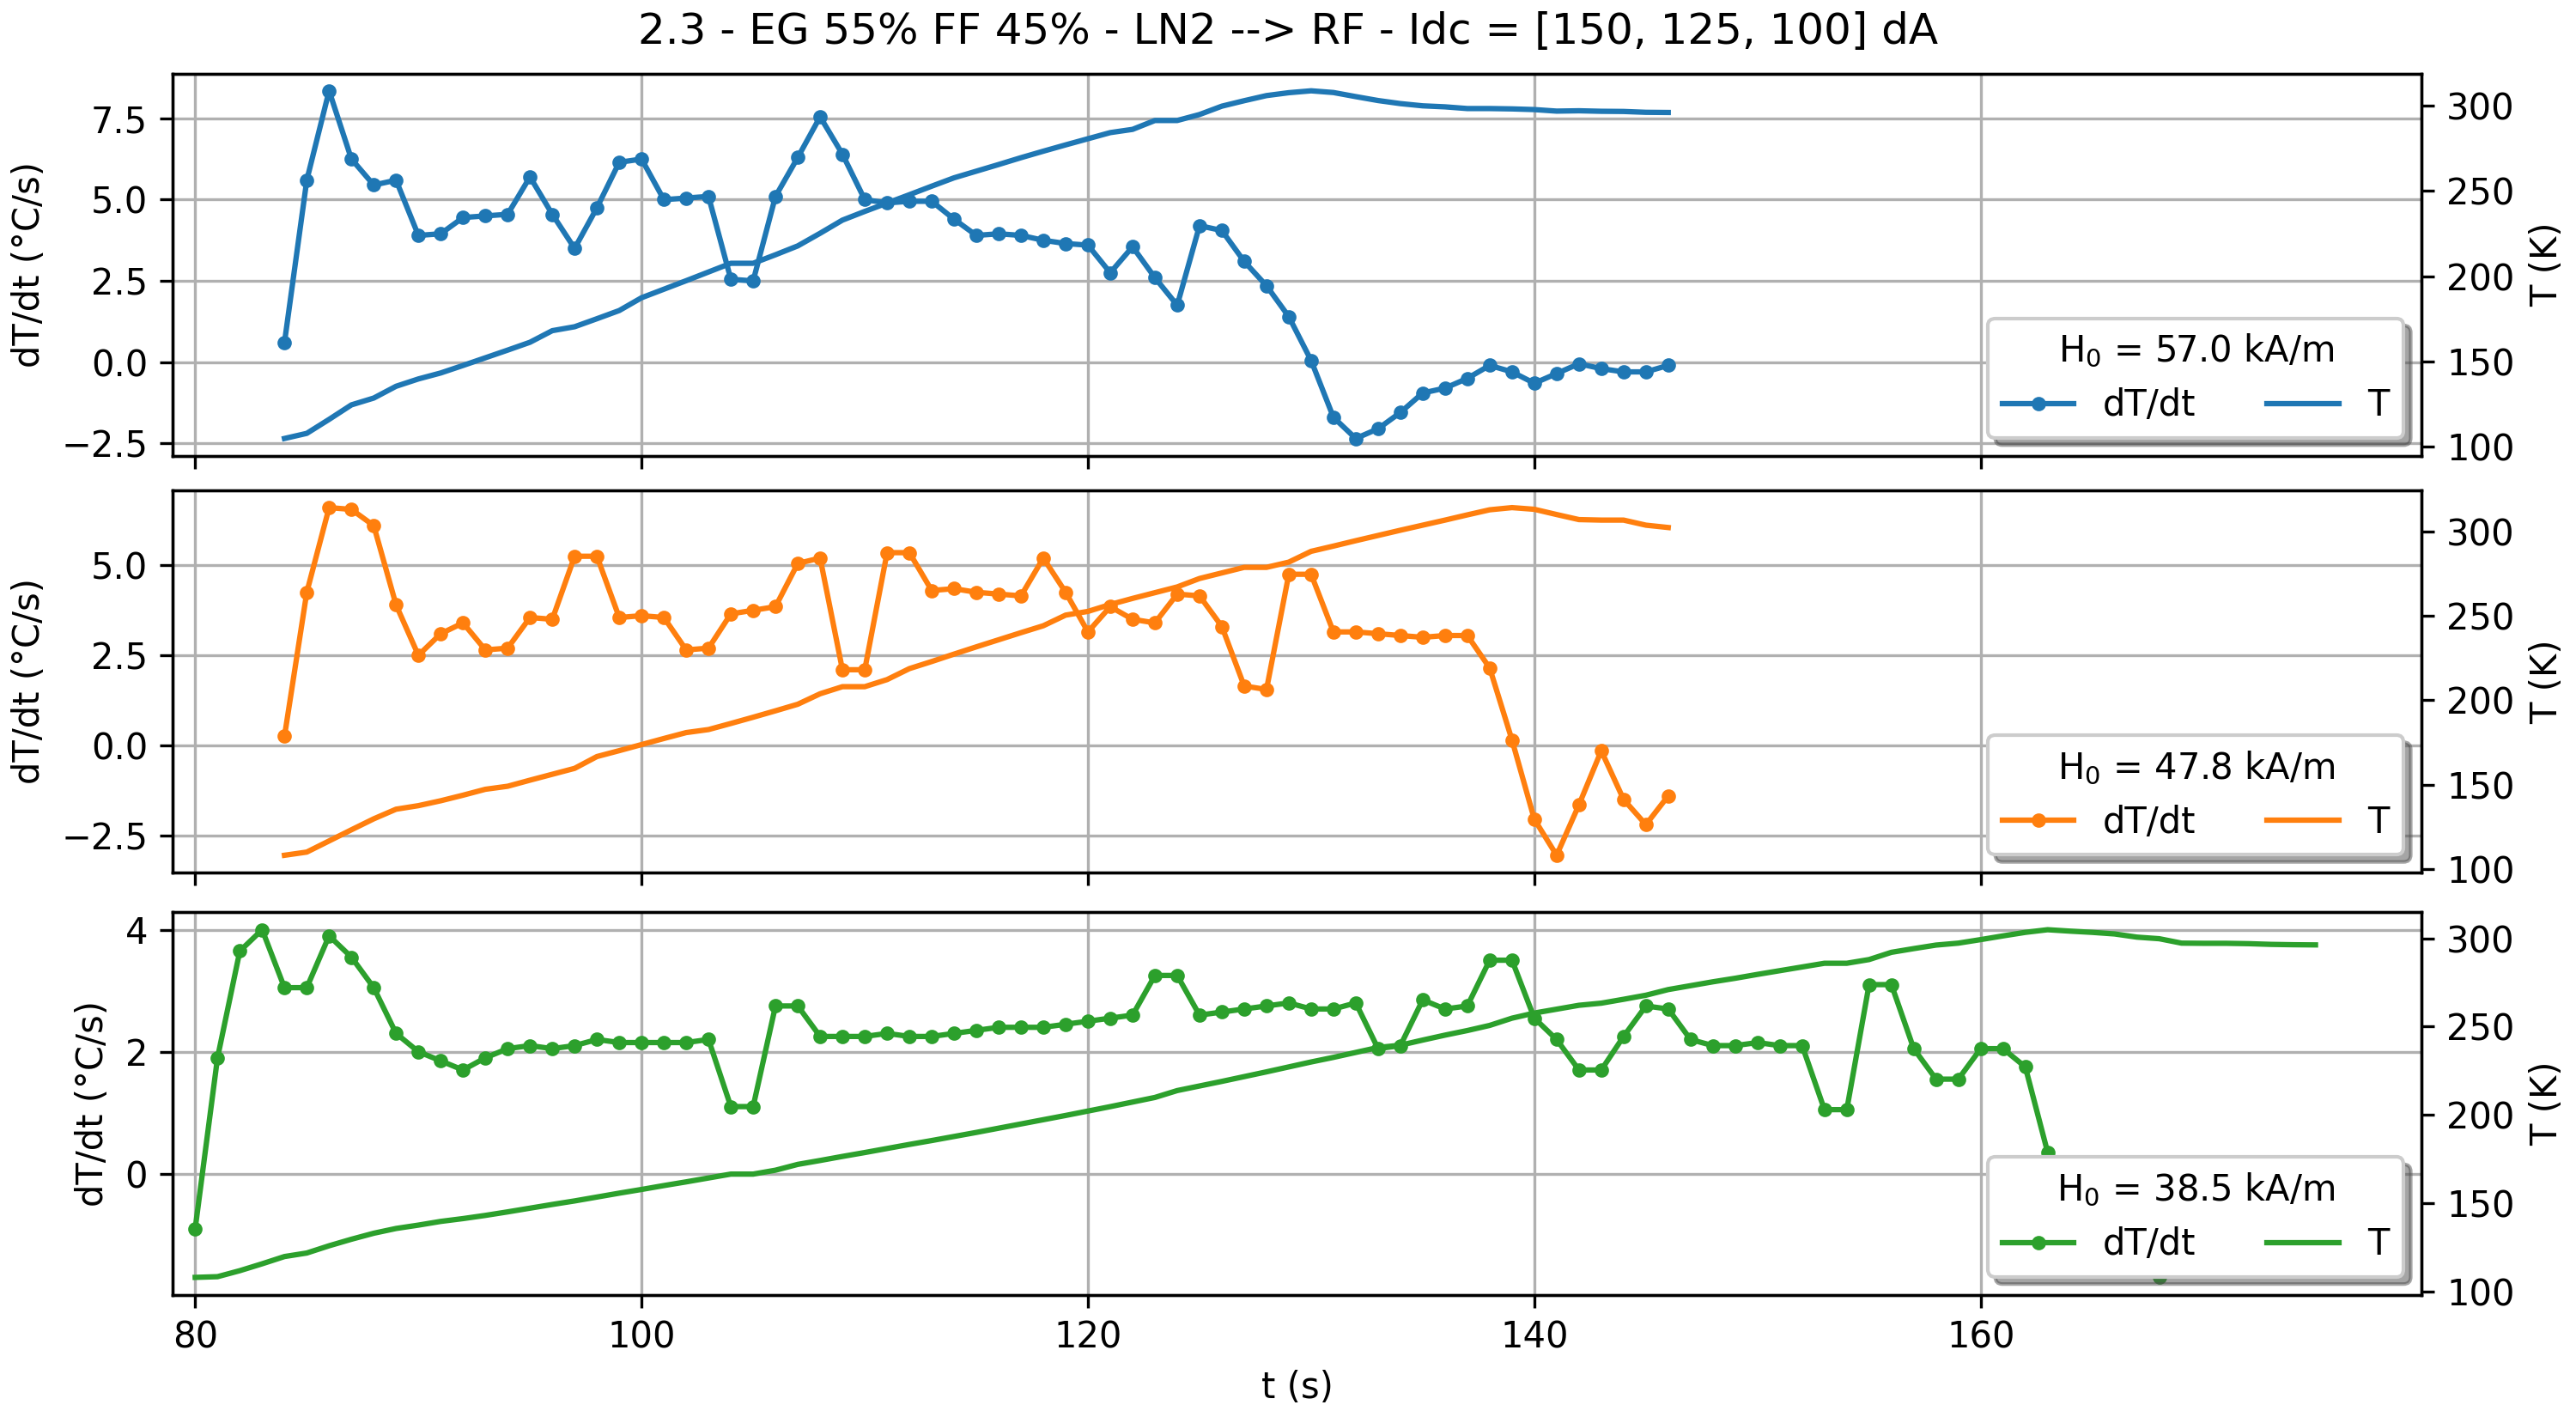
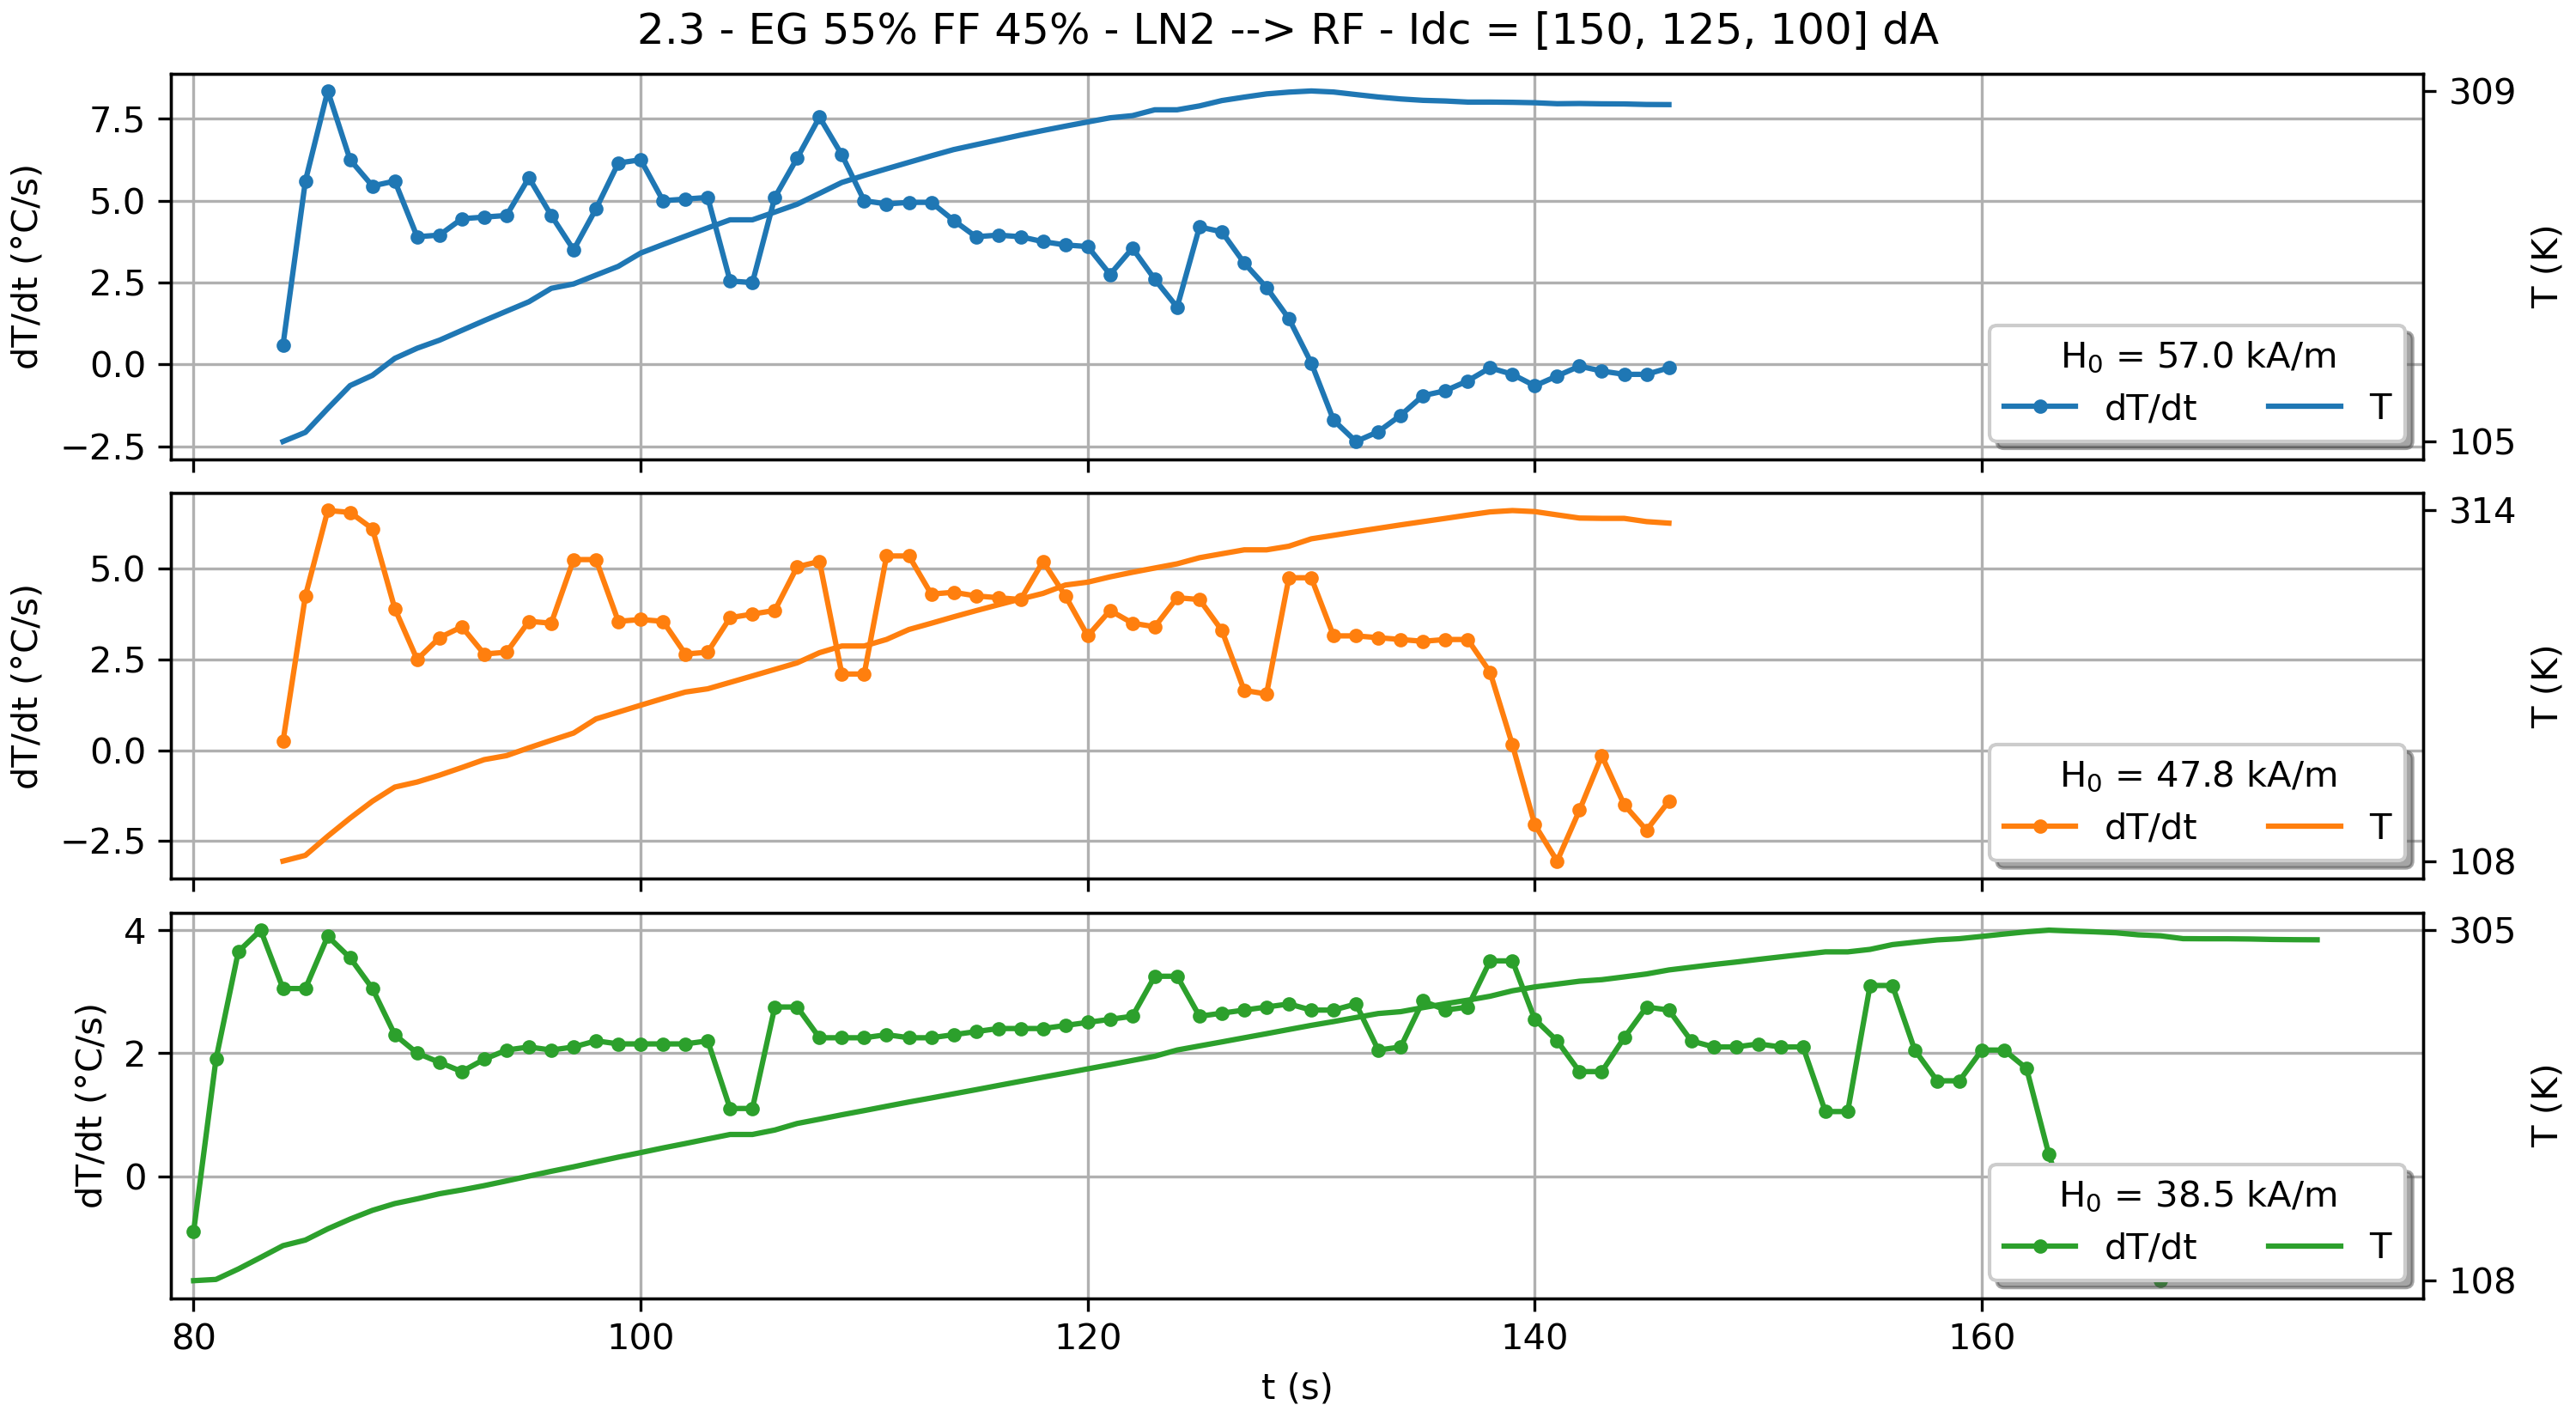
laburo en la ofi

diff --git a/comparativa_templogs.py b/comparativa_templogs.py
@@ -72,7 +72,66 @@ for a in (ax1,ax2):
     # a.axhline(-120,color='k',ls='--',lw=0.5)
     a.grid()
     a.set_ylabel('T (°C)')
+#% Gradiente
+t,t_min=[],[]
+T,T_min=[],[]
+Indx_min,dT=[],[]
 
+for p in temps_500_CPA_EG55FF45_1:
+    _,time,temp_CH1,_ = lector_templog(p)
+    t.append(time)
+    T.append(temp_CH1)
+    dT.append(np.gradient(temp_CH1,time))
+    indx_min=np.nonzero(temp_CH1==min(temp_CH1))[0]
+    t_min.append(time[indx_min])
+    T_min.append(temp_CH1[indx_min])
+    Indx_min.append(indx_min[0])
+
+col=['C0','C1','C2']
+fig13,axs=plt.subplots(3,1,figsize=(10,5.5),constrained_layout=True,sharex=True)
+
+for i,(x,y,z) in enumerate(zip(t[:3],T[:3],dT[:3])):
+    l1=axs[i].plot(x[Indx_min[i]:],z[Indx_min[i]:],'.-',c=col[i],label='dT/dt')
+    ax2=axs[i].twinx()
+    ax2.set_ylabel('T (K)')
+    ax2.set_yscale('log')
+    l2=ax2.plot(x[Indx_min[i]:],y[Indx_min[i]:]+273,c=col[i],label='T')
+
+    handles=l1+l2
+    labels=[h.get_label() for h in handles]
+
+    axs[i].legend(handles,labels,frameon=True,shadow=True,title=os.path.basename(temps_500_CPA_EG55FF45_1[i]).split('.')[0],loc='lower right',ncol=2)
+
+for a in axs:
+    a.set_ylabel('dT/dt (°C/s)')
+    a.set_xlim(min(np.concatenate(t_min[:3]))-1,)
+    a.grid()
+
+axs[2].set_xlabel('t (s)')
+fig13.suptitle('1.3 - EG 55% FF 45% - LN2 --> RF')
+
+fig14,ax=plt.subplots(figsize=(10,4),constrained_layout=True)
+
+l1=ax.plot(t[-1][Indx_min[-1]:],dT[-1][Indx_min[-1]:],'.-',label='dT/dt')
+ax2=ax.twinx()
+ax2.set_yscale('log')
+ax2.set_ylabel('T (K)')
+l2=ax2.plot(t[-1][Indx_min[-1]:],T[-1][Indx_min[-1]:]+273,'C3',label='T')
+ax2.set_ylim(98,273)
+
+handles=l1+l2
+labels=[h.get_label() for h in handles]
+
+ax.legend(handles,labels,frameon=True,shadow=True,title=os.path.basename(temps_500_CPA_EG55FF45_1[-1]).split('.')[0],loc='lower right',ncol=2)
+
+ax.set_ylabel('dT/dt (°C/s)')
+ax.set_xlim(t_min[-1][0]-5,400)
+ax.grid()
+ax.set_xlabel('t (s)')
+fig14.suptitle('1.4 - EG 55% FF 45% - LN2 --> RT')
+
+fig13.savefig('gradiente_temperatura_RF.png',dpi=300)
+fig14.savefig('gradiente_temperatura_RT.png',dpi=300)
 #%% 2 - 500 uL EG 55 FF 45 LN2 RF300
 print('-'*50,'\nEG 55 FF 45 LN2 RF300- Idc= [150, 125, 100, 075, 050] dA','\n')
 
@@ -101,7 +160,7 @@ for i,p in enumerate(temps_500_EG55_FF45_2[:3]):
     t_min.append(time[indx_min])
     T_min.append(temp_CH1[indx_min])
     Indx_min.append(indx_min[0])
-    print(f'Temp minima = {temp_CH1[np.nonzero(temp_CH1==min(temp_CH1))][0]:.1f} C alcanzada en {time[np.nonzero(temp_CH1==min(temp_CH1))][0]:.1f} s')
+    print(f'Temp minima = {temp_CH1[np.nonzero(temp_CH1==min(temp_CH1))][0]:.1f} C ({temp_CH1[np.nonzero(temp_CH1==min(temp_CH1))][0]+273:.1f} K) alcanzada en {time[np.nonzero(temp_CH1==min(temp_CH1))][0]:.1f} s')
     ax1.plot(time,temp_CH1,label=f'{H0[i]:.1f} kA/m')
     ax1.plot(time,(np.gradient(temp_CH1,time)))
 
@@ -114,33 +173,37 @@ for i,p in enumerate(temps_500_EG55_FF45_2[3:]):
     t_min.append(time[indx_min])
     T_min.append(temp_CH1[indx_min])
     Indx_min.append(indx_min[0])
-    print(f'Temp minima = {temp_CH1[np.nonzero(temp_CH1==min(temp_CH1))][0]:.1f} C alcanzada en {time[np.nonzero(temp_CH1==min(temp_CH1))][0]:.1f} s')
+    print(f'Temp minima = {temp_CH1[np.nonzero(temp_CH1==min(temp_CH1))][0]:.1f} C ({temp_CH1[np.nonzero(temp_CH1==min(temp_CH1))][0]+273:.1f} K) alcanzada en {time[np.nonzero(temp_CH1==min(temp_CH1))][0]:.1f} s')
     ax2.plot(time,temp_CH1,label=f'{H0[i+3]:.1f} kA/m' if i!=2 else '0 kA/m')
+    ax2.plot(time,(np.gradient(temp_CH1,time)))
 
 for a in (ax1,ax2):
     a.set_xlim(0,175)
     a.grid()
     a.legend(title='f = 300 kHz',loc='lower right',shadow=True,frameon=True)
     a.set_ylabel('T (°C)')
-ax2.set_xlim(80,350)
+ax2.set_xlim(60,350)
 ax2.set_xlabel('t (s)')
 
-#%% Gradiente 
+#% Gradiente 
 col=['C0','C1','C2']
 fig23,axs=plt.subplots(3,1,figsize=(10,5.5),constrained_layout=True,sharex=True)
 
 for i,(x,y,z) in enumerate(zip(t[:3],T[:3],dT[:3])):
     l1 = axs[i].plot(x[Indx_min[i]:],z[Indx_min[i]:],'.-',c=col[i],label='dT/dt')
     ax2 = axs[i].twinx()
-    # ax2.set_yscale('log')
-    #ax2.set_ylim(93,273)
+    ax2.set_yscale('log')
     ax2.set_ylabel('T (K)')
+    Tplot = y[Indx_min[i]:] + 273
     l2 = ax2.plot(x[Indx_min[i]:],y[Indx_min[i]:]+273,c=col[i],label='T')
-
+    ax2.set_yticks([Tplot.min(),Tplot.max()])
+    ax2.set_yticklabels([f'{Tplot.min():.0f}',f'{Tplot.max():.0f}'])
+    ax2.minorticks_off()
+    
     handles = l1 + l2
     labels = [h.get_label() for h in handles]
 
-    axs[i].legend(handles, labels, frameon=True, shadow=True,title=f'H$_0$ = {H0[i]:.1f} kA/m',loc='lower right',ncols=2)
+    axs[i].legend(handles, labels, frameon=True, shadow=True,title=f'H$_0$ = {H0[i]:.1f} kA/m',loc='lower right',ncol=2)
 
 for a in axs:
     a.set_ylabel('dT/dt (°C/s)')
@@ -156,13 +219,17 @@ for i,(x,y,z) in enumerate(zip(t[3:],T[3:],dT[3:])):
     ax2 = axs[i].twinx()
     ax2.set_yscale('log')
     ax2.set_ylabel('T (K)')
+    Tplot = y[Indx_min[i]:] + 273
     l2 = ax2.plot(x[Indx_min[i]:],y[Indx_min[i]:]+273,c=col[i],label='T')
+    ax2.set_yticks([Tplot.min(),273])
+    ax2.set_yticklabels([f'{Tplot.min():.0f}','273'])
+    ax2.minorticks_off()    
     ax2.set_ylim(98,273)
 
     handles = l1 + l2
     labels = [h.get_label() for h in handles]
 
-    axs[i].legend(handles, labels, frameon=True, shadow=True,title=f'H$_0$ = {H0[i]:.1f} kA/m',loc='lower right',ncols=2)
+    axs[i].legend(handles, labels, frameon=True, shadow=True,title=f'H$_0$ = {H0[i]:.1f} kA/m',loc='lower right',ncol=2)
 
 for a in axs:
     a.set_ylabel('dT/dt (°C/s)')
@@ -176,9 +243,7 @@ fig24.suptitle('2.4 - EG 55% FF 45% - LN2 --> RF - Idc = [075, 050, 100] dA')
 fig23.savefig('gradiente_temperatura_150_125_100.png',dpi=300)
 fig24.savefig('gradiente_temperatura_075_050_000.png',dpi=300)
 
-
-
-#%%3  
+#%%3 
 print('-'*50,'\nEG 53 FF 47 LN2 RF300- Idc= [150, 125, 100, 075, 050] dA','\n')
 
 temps_500_EG53_FF47 = glob("3_EG53_FF47_LN2_to_RF_150_125_100_075_050/*.csv",recursive=True)
@@ -187,6 +252,9 @@ for p in temps_500_EG53_FF47:
     print('  -',os.path.basename(p))
 Idc_values = [15.0, 12.5, 10.0, 7.5, 5.0,0]
 H0=[(h*pendiente_HvsI+ordenada_HvsI)/1000 for h in Idc_values]  
+t,t_min=[],[]
+T,T_min=[],[]
+Indx_min,dT=[],[]
 
 fig3,(ax1,ax2) = plt.subplots(2,1,figsize=(9,9),constrained_layout=True)
 ax1.set_title('3.1 - EG 53% FF 47% - LN2 --> RF - Idc = [150, 125, 100] dA',loc='left')
@@ -194,20 +262,99 @@ ax2.set_title('3.2 - EG 53% FF 47% - LN2 --> RF - Idc = [75, 50, 00] dA',loc='le
 
 for i,p in enumerate(temps_500_EG53_FF47[:3]):
     _,time,temp_CH1, _ = lector_templog(p)
+    t.append(time)
+    T.append(temp_CH1)
+    dT.append(np.gradient(temp_CH1,time))
+    indx_min=np.nonzero(temp_CH1==min(temp_CH1))[0]
+    t_min.append(time[indx_min])
+    T_min.append(temp_CH1[indx_min])
+    Indx_min.append(indx_min[0])
+    print(f'Temp minima = {temp_CH1[np.nonzero(temp_CH1==min(temp_CH1))][0]:.1f} C ({temp_CH1[np.nonzero(temp_CH1==min(temp_CH1))][0]+273:.1f} K) alcanzada en {time[np.nonzero(temp_CH1==min(temp_CH1))][0]:.1f} s')
     ax1.plot(time,temp_CH1,label=f'{H0[i]:.1f} kA/m')
+    ax1.plot(time,(np.gradient(temp_CH1,time)))
 
 for i,p in enumerate(temps_500_EG53_FF47[3:]):
     _,time,temp_CH1, _ = lector_templog(p)
+    t.append(time)
+    T.append(temp_CH1)
+    dT.append(np.gradient(temp_CH1,time))
+    indx_min=np.nonzero(temp_CH1==min(temp_CH1))[0]
+    t_min.append(time[indx_min])
+    T_min.append(temp_CH1[indx_min])
+    Indx_min.append(indx_min[0])
+    print(f'Temp minima = {temp_CH1[np.nonzero(temp_CH1==min(temp_CH1))][0]:.1f} C ({temp_CH1[np.nonzero(temp_CH1==min(temp_CH1))][0]+273:.1f} K) alcanzada en {time[np.nonzero(temp_CH1==min(temp_CH1))][0]:.1f} s')
     ax2.plot(time,temp_CH1,label=f'{H0[i+3]:.1f} kA/m' if i!=2 else '0 kA/m')
+    ax2.plot(time,(np.gradient(temp_CH1,time)))
 
 for a in (ax1,ax2):
     a.set_xlim(0,175)
     a.grid()
     a.legend(title='f = 300 kHz',loc='lower right',shadow=True,frameon=True)
     a.set_ylabel('T (°C)')
-ax2.set_xlim(80,350)
+ax2.set_xlim(60,350)
 ax2.set_xlabel('t (s)')
 
+# Gradiente
+col=['C0','C1','C2']
+fig33,axs=plt.subplots(3,1,figsize=(10,5.5),constrained_layout=True,sharex=True)
+
+for i,(x,y,z) in enumerate(zip(t[:3],T[:3],dT[:3])):
+    l1 = axs[i].plot(x[Indx_min[i]:],z[Indx_min[i]:],'.-',c=col[i],label='dT/dt')
+    ax2 = axs[i].twinx()
+    ax2.set_yscale('log')
+    ax2.set_ylabel('T (K)')
+    Tplot = y[Indx_min[i]:] + 273
+    l2 = ax2.plot(x[Indx_min[i]:],Tplot,c=col[i],label='T')
+    ax2.set_yticks([Tplot.min(),Tplot.max()])
+    ax2.set_yticklabels([f'{Tplot.min():.0f}',f'{Tplot.max():.0f}'])
+    ax2.minorticks_off()
+
+    handles = l1 + l2
+    labels = [h.get_label() for h in handles]
+
+    axs[i].legend(handles, labels, frameon=True, shadow=True,title=f'H$_0$ = {H0[i]:.1f} kA/m',loc='lower right',ncol=2)
+
+for a in axs:
+    a.set_ylabel('dT/dt (°C/s)')
+    a.set_xlim(min(t_min[:3])[0]-1,)
+    a.grid()
+    a.set_ylim(-1,2.5)
+axs[2].set_xlabel('t (s)')
+fig33.suptitle('3.3 - EG 53% FF 47% - LN2 --> RF - Idc = [150, 125, 100] dA')
+
+fig34,axs=plt.subplots(3,1,figsize=(10,5.5),constrained_layout=True,sharex=True)
+
+for i,(x,y,z) in enumerate(zip(t[3:],T[3:],dT[3:])):
+    l1 = axs[i].plot(x[Indx_min[i]:],z[Indx_min[i]:],'.-',c=col[i],label='dT/dt')
+    ax2 = axs[i].twinx()
+    ax2.set_yscale('log')
+    ax2.set_ylabel('T (K)')
+    Tplot = y[Indx_min[i]:] + 273
+    l2 = ax2.plot(x[Indx_min[i]:],Tplot,c=col[i],label='T')
+    ax2.set_yticks([Tplot.min(),273])
+    ax2.set_yticklabels([f'{Tplot.min():.0f}','273'])
+    ax2.minorticks_off()
+    ax2.set_ylim(98,273)
+
+    handles = l1 + l2
+    labels = [h.get_label() for h in handles]
+
+    axs[i].legend(handles, labels, frameon=True, shadow=True,title=f'H$_0$ = {H0[i]:.1f} kA/m',loc='lower right',ncol=2)
+
+for a in axs:
+    a.set_ylabel('dT/dt (°C/s)')
+    a.set_xlim(min(np.concatenate(t_min)[3:])-2,250)
+    a.set_yticks([-1,-0.5,0,0.5,1,1.5,2,2.5])
+    # a.set_yticklabels(['-1','-0.5','0','0.5','1','1.5','2','2.5'])    
+    a.set_ylim(-1,2.5)
+    
+    a.grid()
+axs[2].set_xlabel('t (s)')
+fig34.suptitle('3.4 - EG 53% FF 47% - LN2 --> RF - Idc = [075, 050, 100] dA')
+
+#salvo figuras
+fig33.savefig('gradiente_temperatura_EG53FF47_150_125_100.png',dpi=300)
+fig34.savefig('gradiente_temperatura_EG53FF47_075_050_000.png',dpi=300)
 #%%4  
 print('-'*50,'\nEG 51 FF 49 LN2 RF300- Idc= [150, 125, 100, 075, 050] dA','\n')
 temps_500_EG51_FF49 = glob("4_EG51_FF49_LN2_to_RF_150_125_100_075_050/*.csv",recursive=True)
@@ -215,21 +362,43 @@ temps_500_EG51_FF49.sort()
 for p in temps_500_EG51_FF49:
     print('  -',os.path.basename(p))
 Idc_values = [15.0, 12.5, 10.0, 7.5, 5.0,0]
-H0=[(h*pendiente_HvsI+ordenada_HvsI)/1000 for h in Idc_values]  
+H0=[(h*pendiente_HvsI+ordenada_HvsI)/1000 for h in Idc_values]
+t,t_min=[],[]
+T,T_min=[],[]
+Indx_min,dT=[],[]
 
 fig4,(ax1,ax2) = plt.subplots(2,1,figsize=(9,9),constrained_layout=True)
 ax1.set_title('4.1 - EG 51% FF 49% - LN2 --> RF - Idc = [150, 125, 100] dA',loc='left')
 ax2.set_title('4.2 - EG 51% FF 49% - LN2 --> RF - Idc = [75, 50, 00] dA',loc='left')
 
 for i,p in enumerate(temps_500_EG51_FF49[:3]):
-    _,time,temp_CH1, _ = lector_templog(p)
+    _,time,temp_CH1,_ = lector_templog(p)
+    t.append(time)
+    T.append(temp_CH1)
+    dT.append(np.gradient(temp_CH1,time))
+    indx_min=np.nonzero(temp_CH1==min(temp_CH1))[0]
+    t_min.append(time[indx_min])
+    T_min.append(temp_CH1[indx_min])
+    Indx_min.append(indx_min[0])
+    print(f'Temp minima = {temp_CH1[np.nonzero(temp_CH1==min(temp_CH1))][0]:.1f} C ({temp_CH1[np.nonzero(temp_CH1==min(temp_CH1))][0]+273:.1f} K) alcanzada en {time[np.nonzero(temp_CH1==min(temp_CH1))][0]:.1f} s')
     ax1.plot(time,temp_CH1,label=f'{H0[i]:.1f} kA/m')
+    ax1.plot(time,(np.gradient(temp_CH1,time)))
 
 for i,p in enumerate(temps_500_EG51_FF49[3:]):
-    _,time,temp_CH1, _ = lector_templog(p)
+    _,time,temp_CH1,_ = lector_templog(p)
+    t.append(time)
+    T.append(temp_CH1)
+    dT.append(np.gradient(temp_CH1,time))
+    indx_min=np.nonzero(temp_CH1==min(temp_CH1))[0]
+    t_min.append(time[indx_min])
+    T_min.append(temp_CH1[indx_min])
+    Indx_min.append(indx_min[0])
+    print(f'Temp minima = {temp_CH1[np.nonzero(temp_CH1==min(temp_CH1))][0]:.1f} C ({temp_CH1[np.nonzero(temp_CH1==min(temp_CH1))][0]+273:.1f} K) alcanzada en {time[np.nonzero(temp_CH1==min(temp_CH1))][0]:.1f} s')
     ax2.plot(time,temp_CH1,label=f'{H0[i+3]:.1f} kA/m' if i!=2 else '0 kA/m')
+    ax2.plot(time,(np.gradient(temp_CH1,time)))
+
 ax1.set_xlim(0,160)
-ax2.set_xlim(00,350)
+ax2.set_xlim(0,350)
 
 for a in (ax1,ax2):
     a.grid()
@@ -237,6 +406,66 @@ for a in (ax1,ax2):
     a.set_ylabel('T (°C)')
 ax2.set_xlabel('t (s)')
 
+#%% Gradiente
+col=['C0','C1','C2']
+fig43,axs=plt.subplots(3,1,figsize=(10,5.5),constrained_layout=True,sharex=True)
+
+for i,(x,y,z) in enumerate(zip(t[:3],T[:3],dT[:3])):
+    l1 = axs[i].plot(x[Indx_min[i]:],z[Indx_min[i]:],'.-',c=col[i],label='dT/dt')
+    ax2 = axs[i].twinx()
+    ax2.set_yscale('log')
+    ax2.set_ylabel('T (K)')
+    Tplot = y[Indx_min[i]:] + 273
+    l2 = ax2.plot(x[Indx_min[i]:],Tplot,c=col[i],label='T')
+    ax2.set_yticks([Tplot.min(),Tplot.max()])
+    ax2.set_yticklabels([f'{Tplot.min():.0f}',f'{Tplot.max():.0f}'])
+    ax2.minorticks_off()
+
+    handles = l1 + l2
+    labels = [h.get_label() for h in handles]
+
+    axs[i].legend(handles, labels, frameon=True, shadow=True,title=f'H$_0$ = {H0[i]:.1f} kA/m',loc='lower right',ncol=2)
+
+for a in axs:
+    a.set_ylabel('dT/dt (°C/s)')
+    a.set_xlim(min(t_min[:3])[0]-1,)
+    a.grid()
+    #a.set_ylim(-1,2.5)
+
+axs[2].set_xlabel('t (s)')
+fig43.suptitle('4.3 - EG 51% FF 49% - LN2 --> RF - Idc = [150, 125, 100] dA')
+
+fig44,axs=plt.subplots(3,1,figsize=(10,5.5),constrained_layout=True,sharex=True)
+
+for i,(x,y,z) in enumerate(zip(t[3:],T[3:],dT[3:])):
+    l1 = axs[i].plot(x[Indx_min[i]:],z[Indx_min[i]:],'.-',c=col[i],label='dT/dt')
+    ax2 = axs[i].twinx()
+    ax2.set_yscale('log')
+    ax2.set_ylabel('T (K)')
+    Tplot = y[Indx_min[i]:] + 273
+    l2 = ax2.plot(x[Indx_min[i]:],Tplot,c=col[i],label='T')
+    ax2.set_yticks([Tplot.min(),273])
+    ax2.set_yticklabels([f'{Tplot.min():.0f}','273'])
+    ax2.minorticks_off()
+    ax2.set_ylim(98,273)
+
+    handles = l1 + l2
+    labels = [h.get_label() for h in handles]
+
+    axs[i].legend(handles, labels, frameon=True, shadow=True,title=f'H$_0$ = {H0[i]:.1f} kA/m',loc='lower right',ncol=2)
+
+for a in axs:
+    a.set_ylabel('dT/dt (°C/s)')
+    a.set_xlim(min(np.concatenate(t_min)[3:-1]),250)
+    a.set_yticks([-1,-0.5,0,0.5,1,1.5,2,2.5])
+    #a.set_ylim(-1,2.5)
+    a.grid()
+
+axs[2].set_xlabel('t (s)')
+fig44.suptitle('4.4 - EG 51% FF 49% - LN2 --> RF - Idc = [075, 050, 100] dA')
+
+fig43.savefig('gradiente_temperatura_EG51FF49_150_125_100.png',dpi=300)
+fig44.savefig('gradiente_temperatura_EG51FF49_075_050_000.png',dpi=300)
 #%% Salvo figuras
 figs=[fig1,fig2,fig3,fig4]
 names=['EG55FF45_LN2_RF','EG55FF45_LN2_RF_Idc','EG53FF47_LN2_RF_Idc','EG51FF49_LN2_RF_Idc']